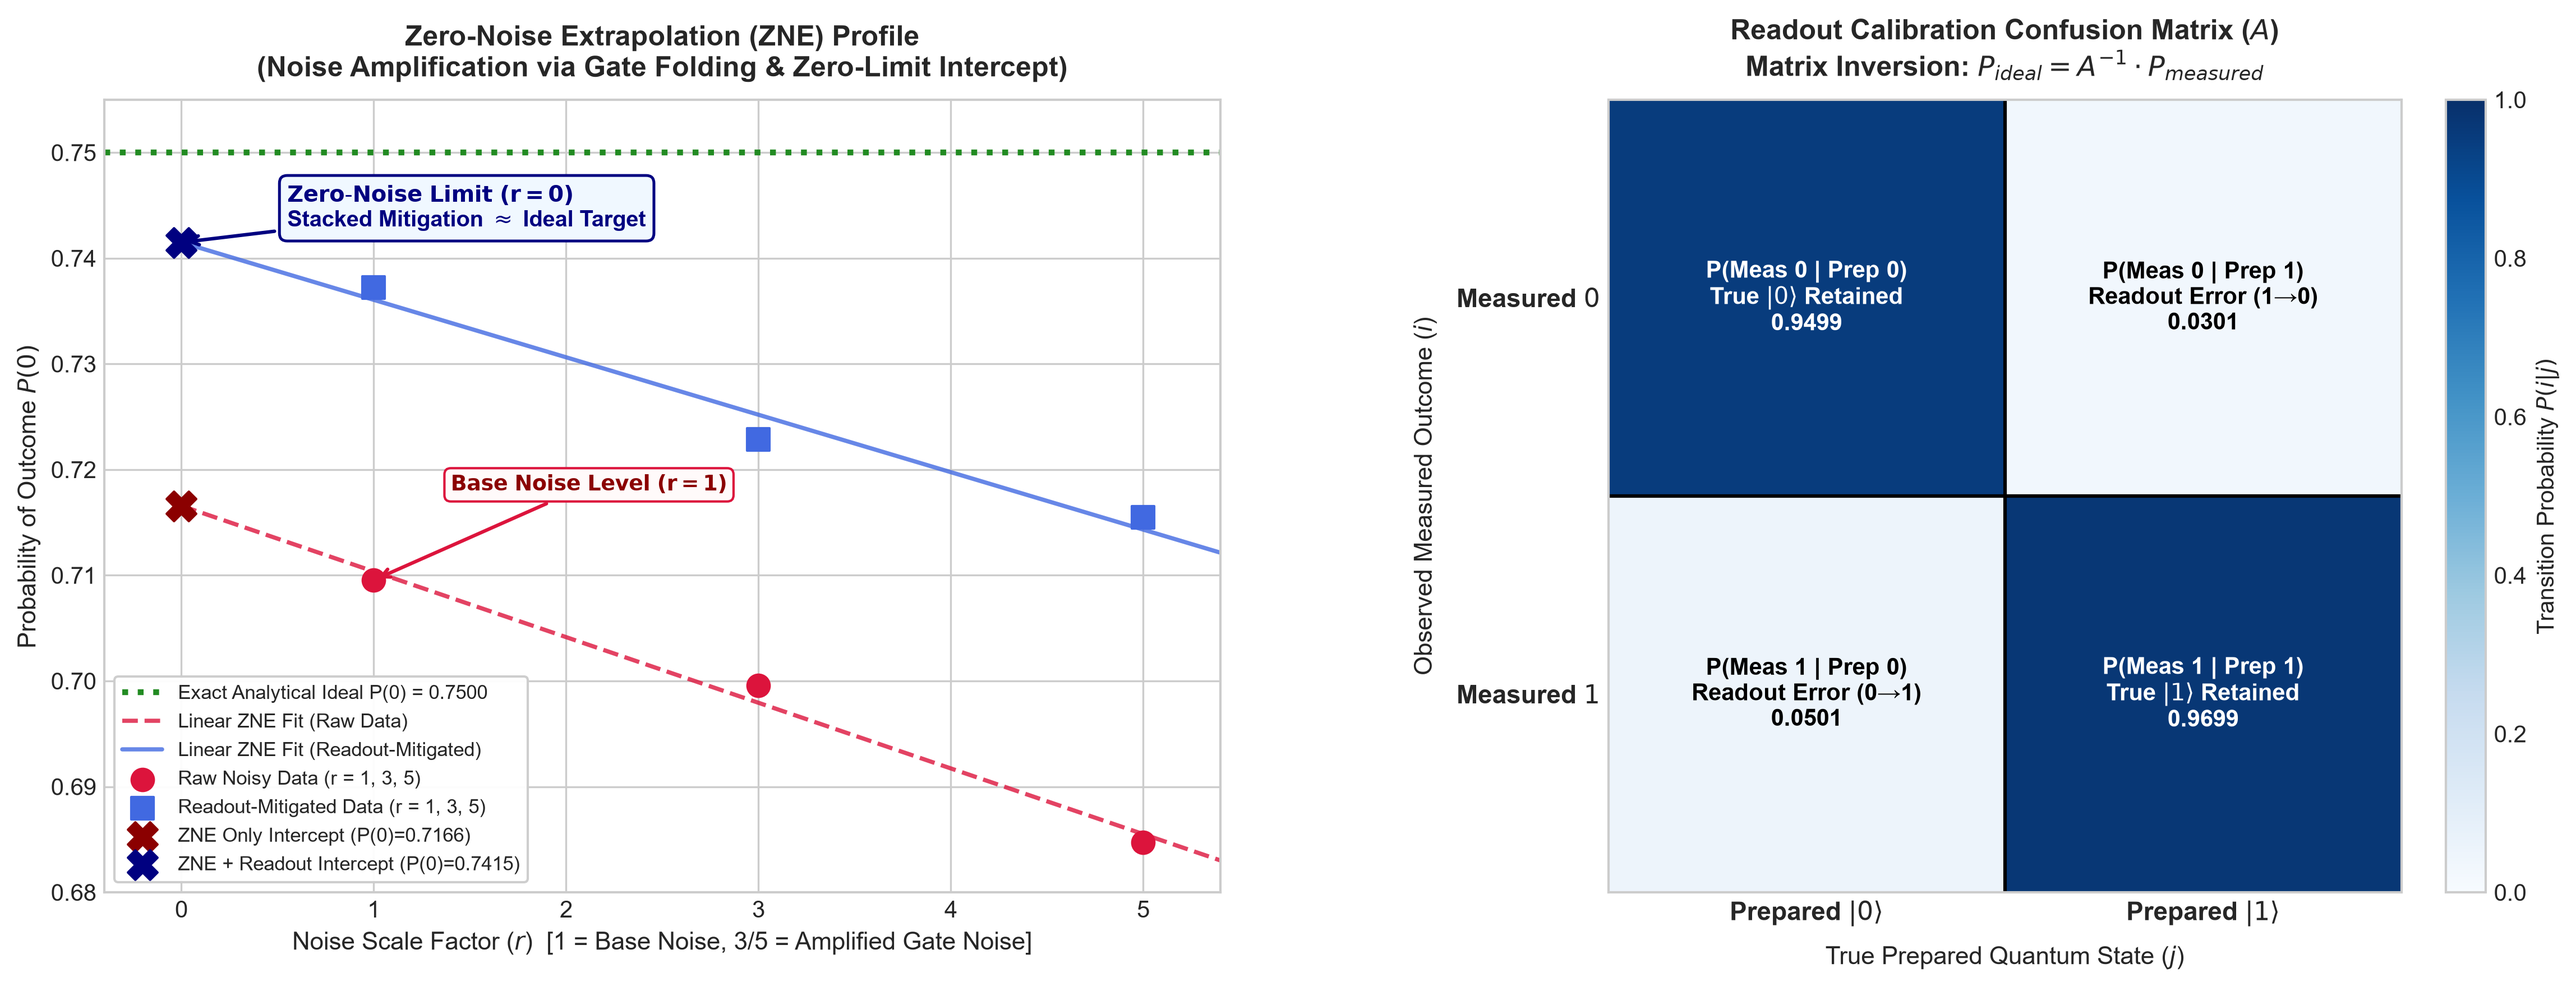
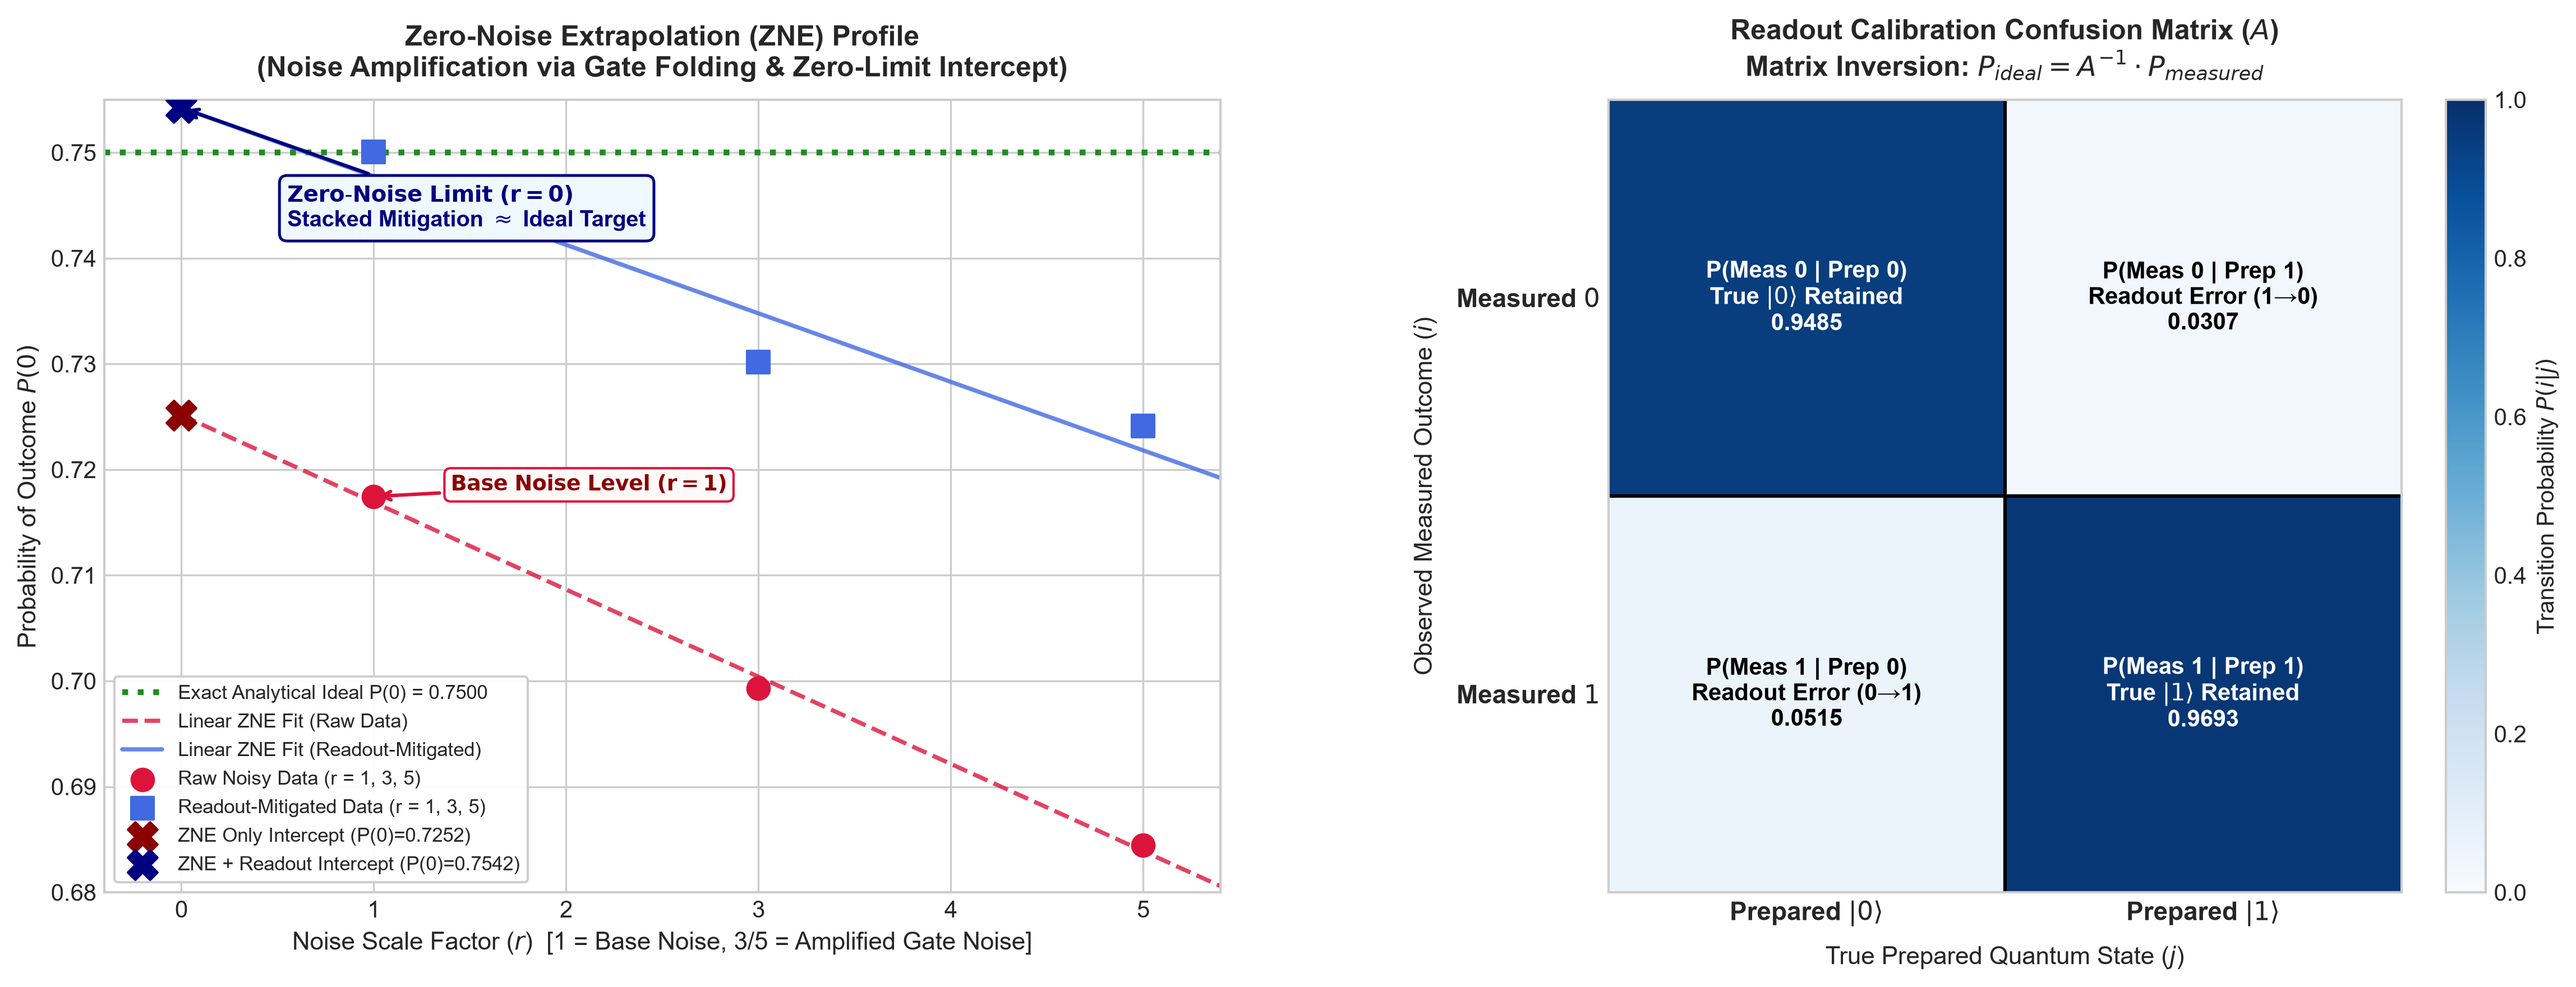
Update error_mitigation_test.py and vqsvd_ideal.py for improved readability and enhanced visualization

diff --git a/error_mitigation_test.py b/error_mitigation_test.py
@@ -9,10 +9,10 @@ from qiskit import QuantumCircuit
 from qiskit_aer import AerSimulator
 from qiskit_aer.noise import NoiseModel, depolarizing_error, ReadoutError
 
-# ----------------------------------------------------------------------
+
 # 0. Setup
-# ----------------------------------------------------------------------
-theta = np.pi / 3          # our test angle
+
+theta = np.pi / 3
 shots = 20000
 ideal_p0 = np.cos(theta / 2) ** 2
 print(f"Exact ideal P(0) for theta = pi/3:  {ideal_p0:.4f}\n")
@@ -38,9 +38,8 @@ def p0_from_counts(counts):
     total = sum(counts.values())
     return counts.get("0", 0) / total
 
-# ----------------------------------------------------------------------
 # 1. Baseline: ideal vs. plain noisy result (no mitigation)
-# ----------------------------------------------------------------------
+
 def base_circuit():
     qc = QuantumCircuit(1, 1)
     qc.ry(theta, 0)
@@ -53,9 +52,9 @@ noisy_counts = sim_noisy.run(base_circuit(), shots=shots).result().get_counts()
 p0_ideal_sim = p0_from_counts(ideal_counts)
 p0_noisy_raw = p0_from_counts(noisy_counts)
 
-# ----------------------------------------------------------------------
+
 # 2. Zero-Noise Extrapolation (ZNE)
-# ----------------------------------------------------------------------
+
 def folded_circuit(scale_factor):
     qc = QuantumCircuit(1, 1)
     qc.ry(theta, 0)
@@ -75,9 +74,9 @@ for s in scale_factors:
 a, b = np.polyfit(scale_factors, zne_results, 1)
 zne_extrapolated = b
 
-# ----------------------------------------------------------------------
+
 # 3. Readout error mitigation
-# ----------------------------------------------------------------------
+
 def calibration_counts(prepared_bit):
     qc = QuantumCircuit(1, 1)
     if prepared_bit == 1:
@@ -101,9 +100,9 @@ measured_vector = np.array([p0_noisy_raw, 1 - p0_noisy_raw])
 corrected_vector = A_inv @ measured_vector
 p0_readout_corrected = corrected_vector[0]
 
-# ----------------------------------------------------------------------
+
 # 4. Combined ZNE + Readout Mitigation
-# ----------------------------------------------------------------------
+
 def readout_correct(p0_raw):
     m_vec = np.array([p0_raw, 1 - p0_raw])
     corr = A_inv @ m_vec
@@ -118,9 +117,9 @@ for s in scale_factors:
 a2, b2 = np.polyfit(scale_factors, combined_results, 1)
 combined_extrapolated = b2
 
-# ======================================================================
+
 # ENHANCED VISUALIZATION BLOCK
-# ======================================================================
+
 plt.style.use('seaborn-v0_8-whitegrid' if 'seaborn-v0_8-whitegrid' in plt.style.available else 'default')
 fig, (ax1, ax2) = plt.subplots(1, 2, figsize=(15.5, 6))
 
@@ -210,3 +209,38 @@ print(f"Raw Distorted Noisy Result     : {p0_noisy_raw:.4f}  (Error: {abs(p0_noi
 print(f"ZNE Mitigated Only Result      : {zne_extrapolated:.4f}  (Error: {abs(zne_extrapolated - ideal_p0):.4f})")
 print(f"Readout Mitigated Only Result  : {p0_readout_corrected:.4f}  (Error: {abs(p0_readout_corrected - ideal_p0):.4f})")
 print(f"Stacked Combined (ZNE+Readout) : {combined_extrapolated:.4f}  (Error: {abs(combined_extrapolated - ideal_p0):.4f})")
+
+
+# ----------------------------------------------------------------------
+# FIGURE 2 -- Presentation-friendly summary: all four methods side by side
+# ----------------------------------------------------------------------
+methods = ["Noisy\n(no mitigation)", "ZNE\nonly", "Readout\nonly", "ZNE + Readout\n(combined)"]
+values = [p0_noisy_raw, zne_extrapolated, p0_readout_corrected, combined_extrapolated]
+errors = [abs(v - ideal_p0) for v in values]
+bar_colors = ["crimson", "darkorange", "royalblue", "seagreen"]
+
+fig2, (bx1, bx2) = plt.subplots(1, 2, figsize=(13, 5.5))
+
+# --- Left panel: estimated P(0) for each method, vs. the true ideal line ---
+bars = bx1.bar(methods, values, color=bar_colors, alpha=0.85, edgecolor="black", linewidth=0.8)
+bx1.axhline(ideal_p0, color="forestgreen", linestyle=":", linewidth=2.5,
+            label=f"Exact ideal P(0) = {ideal_p0:.4f}")
+for bar, val in zip(bars, values):
+    bx1.text(bar.get_x() + bar.get_width() / 2, val + 0.003, f"{val:.4f}",
+              ha="center", fontsize=9.5, fontweight="bold")
+bx1.set_ylim(min(values) - 0.02, ideal_p0 + 0.02)
+bx1.set_title("Estimated P(0) by Mitigation Method", fontsize=12, fontweight="bold")
+bx1.set_ylabel("Probability of outcome P(0)")
+bx1.legend(loc="lower right", fontsize=9)
+
+# --- Right panel: absolute error for each method (lower = better) ---
+bars2 = bx2.bar(methods, errors, color=bar_colors, alpha=0.85, edgecolor="black", linewidth=0.8)
+for bar, err in zip(bars2, errors):
+    bx2.text(bar.get_x() + bar.get_width() / 2, err + 0.0008, f"{err:.4f}",
+              ha="center", fontsize=9.5, fontweight="bold")
+bx2.set_title("Absolute Error vs. Ideal Value\n(lower is better)", fontsize=12, fontweight="bold")
+bx2.set_ylabel("Absolute error |estimate - ideal|")
+
+plt.tight_layout()
+plt.savefig("Figure_2.png", dpi=300, bbox_inches="tight")
+plt.close()

diff --git a/vqsvd_ideal.py b/vqsvd_ideal.py
@@ -1,8 +1,4 @@
 """
-vqsvd_ideal_simulator.py
-
-Full pipeline for Phase 2/3 of the EM-VQSVD project:
-
     1. Compute classical SVD of a test matrix M (ground truth).
     2. Build a parameterized quantum circuit ansatz (two of them: U(theta), V(phi)).
     3. Train them using the Ky Fan theorem loss function.
@@ -11,7 +7,7 @@ Full pipeline for Phase 2/3 of the EM-VQSVD project:
     5. Compare the learned singular values/vectors against the classical
        ground truth.
 
-Requires: pennylane, numpy   (pip install pennylane)
+Requires: pennylane, numpy
 """
 
 import pennylane as qml
@@ -19,9 +15,9 @@ from pennylane import numpy as np   # autograd-wrapped numpy -> differentiable
 
 np.random.seed(42)
 
-# ----------------------------------------------------------------------
+
 # 0. Problem setup: matrix, qubits, number of singular values wanted
-# ----------------------------------------------------------------------
+
 n_qubits = 2                 # 2 qubits -> 4x4 matrix
 dim = 2 ** n_qubits          # 4
 T = dim                      # how many singular values/vectors to extract (all 4 here)
@@ -36,9 +32,9 @@ M = np.array([
     [0.5, 0.1, 0.2, 0.9]
 ])
 
-# ----------------------------------------------------------------------
+
 # 1. Classical SVD -- ground truth
-# ----------------------------------------------------------------------
+
 U_true, S_true, Vh_true = np.linalg.svd(M)
 print("=" * 65)
 print("STEP 1 -- Classical SVD (ground truth, computed with NumPy)")
@@ -47,10 +43,10 @@ print("Singular values (sorted, descending):")
 print("  ", np.round(S_true, 4))
 print()
 
-# ----------------------------------------------------------------------
+
 # 2. Ansatz: hardware-efficient parameterized circuit
 #    Each layer = RY + RZ rotations on every qubit, then a ring of CNOTs.
-# ----------------------------------------------------------------------
+
 def ansatz(params, n_qubits, n_layers):
     for l in range(n_layers):
         for q in range(n_qubits):
@@ -79,12 +75,12 @@ def int_to_bits(i, n):
 # Precompute the basis-state bit patterns once
 basis_patterns = [int_to_bits(i, n_qubits) for i in range(dim)]
 
-# ----------------------------------------------------------------------
+
 # 3. Ky Fan loss:  L = sum_i  q_i * Re( <psi_i| U(theta)^dagger M V(phi) |psi_i> )
 #    Maximizing this (with descending weights q_i) forces the trained
 #    circuits to output the true singular vectors, in the correct order,
 #    and the loss terms themselves converge to the true singular values.
-# ----------------------------------------------------------------------
+
 weights_q = np.array([float(T - i) for i in range(T)])   # e.g. [4, 3, 2, 1]
 
 
@@ -102,9 +98,9 @@ def cost(theta, phi):
     return -ky_fan_loss(theta, phi)   # minimize negative loss = maximize loss
 
 
-# ----------------------------------------------------------------------
+
 # 4. Train on the ideal simulator
-# ----------------------------------------------------------------------
+
 theta = np.array(np.random.uniform(0, 2 * np.pi, (n_layers, n_qubits, 2)), requires_grad=True)
 phi   = np.array(np.random.uniform(0, 2 * np.pi, (n_layers, n_qubits, 2)), requires_grad=True)
 
@@ -121,11 +117,11 @@ for it in range(n_iterations):
 
 print()
 
-# ----------------------------------------------------------------------
+
 # 5. Extract learned singular values / vectors, compare to ground truth
-# ----------------------------------------------------------------------
+
 learned_sigmas = []
-learned_U_cols = []
+learned_U_cols = [] 
 learned_V_cols = []
 for i in range(T):
     u_i = get_state(theta, basis_patterns[i])
